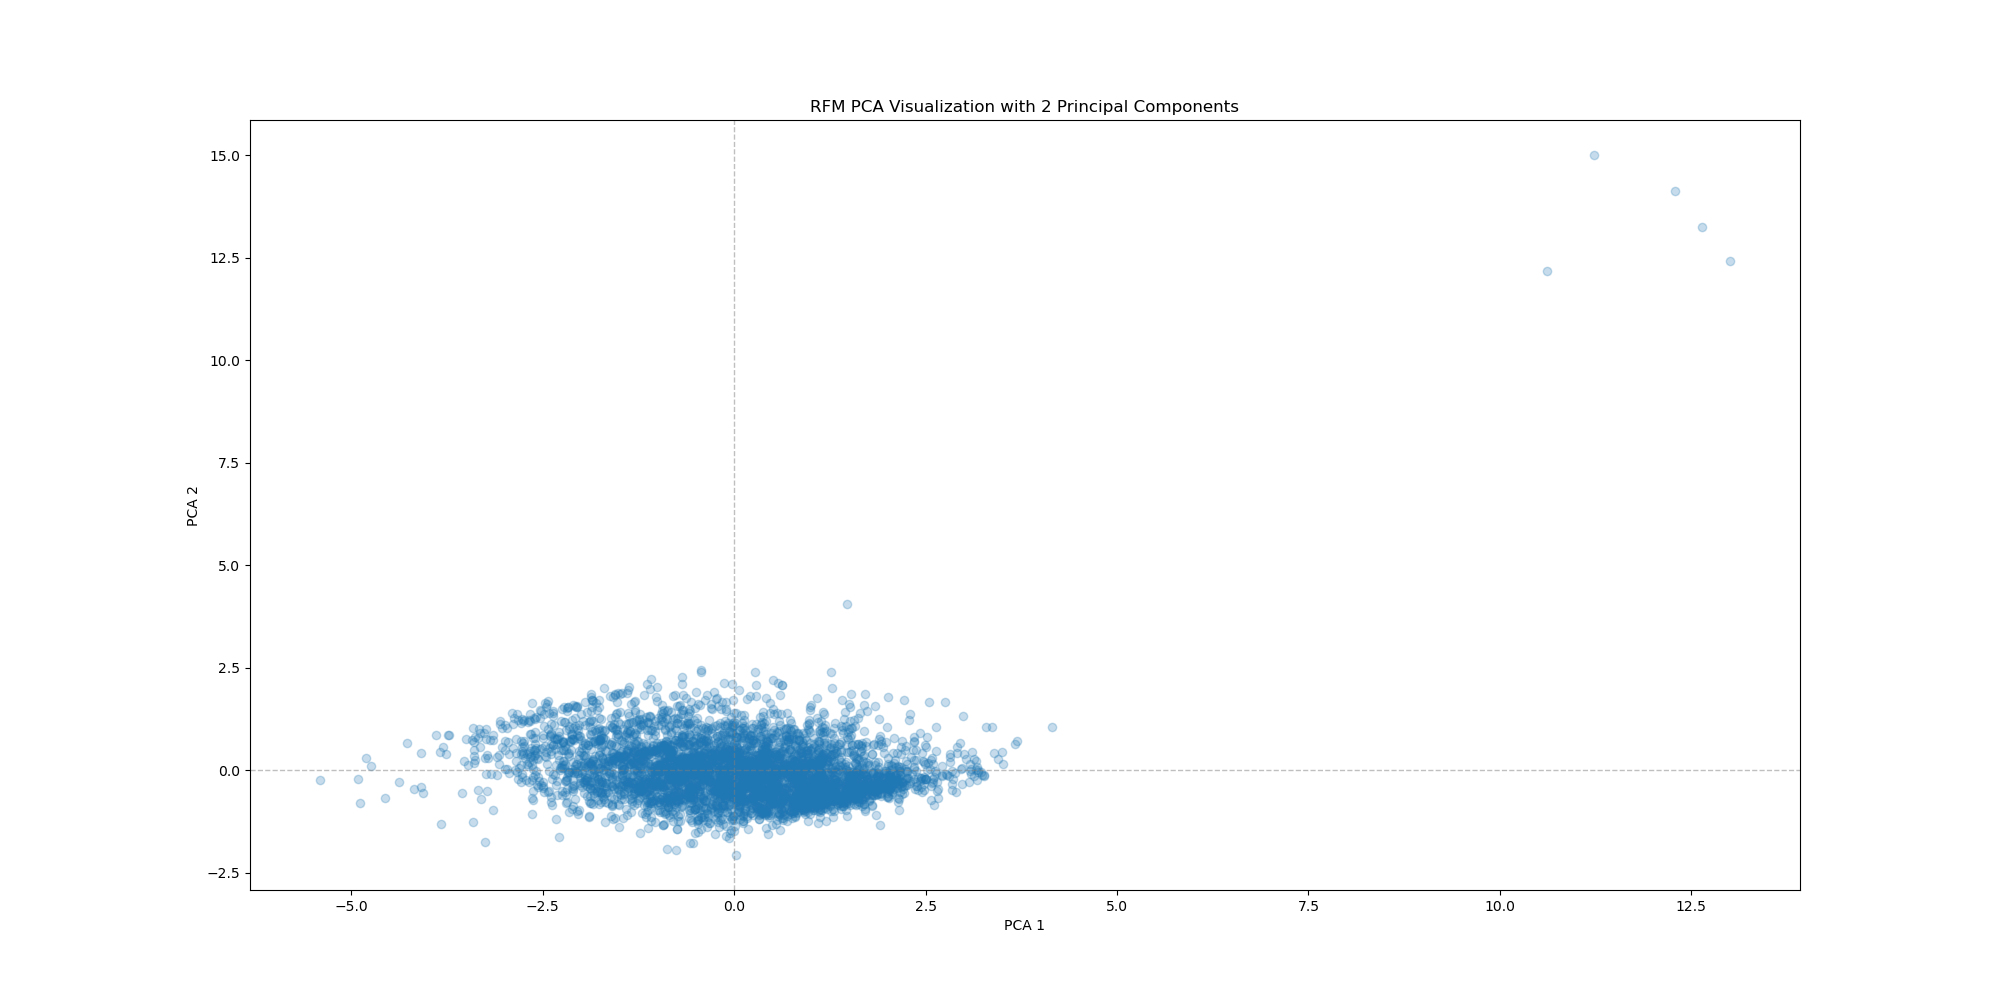
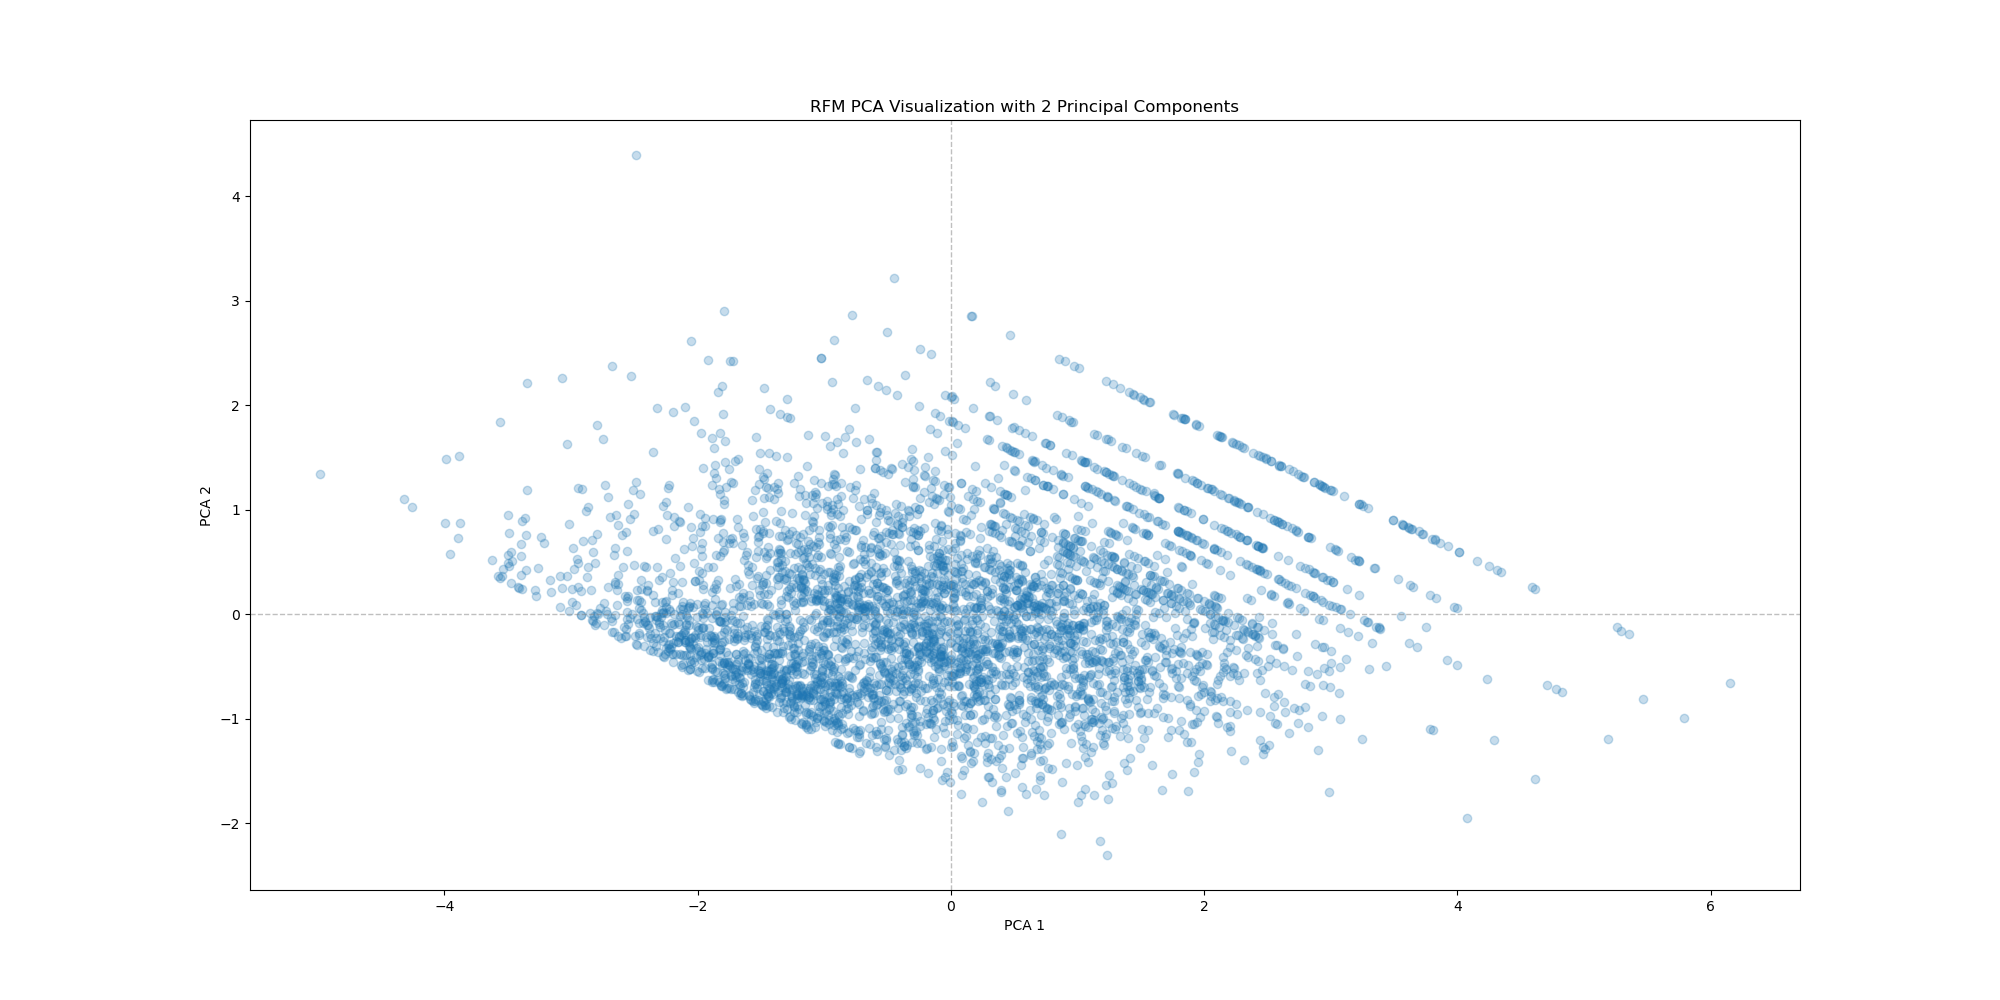
add seaborn visualizations

diff --git a/ecommerce/process_data.py b/ecommerce/process_data.py
@@ -12,6 +12,7 @@
 import math
 import tqdm
 import matplotlib.cm
+import seaborn as sns
 import pandas as pd
 import numpy as np
 import networkx as nx
@@ -31,15 +32,16 @@ from misc_utilities import *
 with warnings_suppressed():
     tqdm.tqdm.pandas()
 
-MAX_NUMBER_OF_CLUSTERS_TO_TRY = 10
+MAX_NUMBER_OF_CLUSTERS_TO_TRY = 15
 
 # https://www.kaggle.com/carrie1/ecommerce-data
 RAW_DATA_CSV_FILE_LOCATION = './data/data.csv'
 
-RFM_PCA_VISUALIZATION_OUTPUT_PNG_FILE_LOCATION = './rfm_pca.png'
 RFM_PCA_VISUALIZATION_WITH_CLUSTERS_OUTPUT_PNG_FILE_LOCATION_TEMPLATE = './rfm_pca_{cluster_count}_clusters.png'
+RFM_PAIR_PLOT_VISUALIZATION_WITH_CLUSTERS_OUTPUT_PNG_FILE_LOCATION_TEMPLATE = './rfm_pair_plot_{cluster_count}_clusters.png'
 RFM_CLUSTER_SILHOUETTE_SCORE_OUPUT_PNG_FILE_LOCATION = './rfm_silhouette_scores.png'
 CUSTOMER_SIMILARITY_LABEL_OUTPUT_PNG_FILE_LOCATION = './customer_similarity_communities.png'
+CUSTOMER_SIMILARITY_LABEL_PAIR_PLOT_OUTPUT_PNG_FILE_LOCATION = './customer_similarity_pair_plot.png'
 
 ###################
 # Data Processing #
@@ -82,15 +84,10 @@ def generate_rfm_df(data_df: pd.DataFrame) -> pd.DataFrame:
     rfm_df = append_invoice_count_data(rfm_df, data_df)
     print('Calculating monetary data.')
     rfm_df = append_overall_purchase_amount_data(rfm_df, data_df)
-    rfm_df.drop(rfm_df[rfm_df.CustomerOverallPurchaseAmount <= 0].index, inplace=True)
+    rfm_df.drop(rfm_df[rfm_df.CustomerOverallPurchaseAmount < 0.01].index, inplace=True)
     assert len(rfm_df[rfm_df.DaysSinceLastPurchase < 0]) == 0
     assert len(rfm_df[rfm_df.InvoiceCount <= 0]) == 0
     assert len(rfm_df[rfm_df.CustomerOverallPurchaseAmount <= 0]) == 0
-    rfm_df.rename(columns={'DaysSinceLastPurchase': 'recency', 'InvoiceCount': 'frequency', 'CustomerOverallPurchaseAmount': 'monetary'}, inplace=True)
-    print('Normalizing RFM data.')
-    rfm_df.recency = rfm_df.recency.progress_map(lambda number_of_days_since_last_purchase: 1+number_of_days_since_last_purchase)
-    rfm_df = rfm_df.progress_apply(np.log10)
-    assert len(rfm_df[rfm_df.isnull().any(axis=1)])==0, "RFM data contains NaN"
     return rfm_df
 
 def generate_customer_similarity_labels_via_louvain(data_df: pd.DataFrame) -> pd.DataFrame:
@@ -107,24 +104,15 @@ def generate_customer_similarity_labels_via_louvain(data_df: pd.DataFrame) -> pd
 # Visualize Data #
 ##################
 
-def visualize_rfm_via_pca(rfm_df: pd.DataFrame, customer_louvain_community_label_df: pd.DataFrame) -> None:
+def visualize_rfm_pca_and_kmeans(rfm_visualization_df: pd.DataFrame) -> Tuple[np.ndarray, np.ndarray, dict]:
     print('Visualizing principal components.')
-    rfm_np = rfm_df.to_numpy()
+    rfm_np = rfm_visualization_df.to_numpy()
     scaler = StandardScaler(copy=False)
     scaler.fit(rfm_np)
     rfm_np = scaler.transform(rfm_np)
     pca = PCA(n_components=2, copy=False)
     pca.fit(rfm_np)
     rfm_np_2_dim = pca.transform(rfm_np)
-    with temp_plt_figure(figsize=(20.0,10.0)) as figure:
-        plot = figure.add_subplot(111)
-        plot.set_title('RFM PCA Visualization with 2 Principal Components')
-        plot.set_xlabel('PCA 1')
-        plot.set_ylabel('PCA 2')
-        plot.axvline(c='grey', lw=1, ls='--', alpha=0.5)
-        plot.axhline(c='grey', lw=1, ls='--', alpha=0.5)
-        plot.scatter(rfm_np_2_dim[:,0], rfm_np_2_dim[:,1], alpha=0.25)
-        figure.savefig(RFM_PCA_VISUALIZATION_OUTPUT_PNG_FILE_LOCATION)
     cluster_label_to_silhouette_score = {}
     for cluster_count in tqdm_with_message(range(2, MAX_NUMBER_OF_CLUSTERS_TO_TRY+1), post_yield_message_func=lambda index: f'Visualizing {cluster_count} clusters'):
         kmeans = KMeans(init='k-means++', n_clusters=cluster_count, n_init=100)
@@ -134,6 +122,7 @@ def visualize_rfm_via_pca(rfm_df: pd.DataFrame, customer_louvain_community_label
             plot.axvline(c='grey', lw=1, ls='--', alpha=0.5)
             plot.axhline(c='grey', lw=1, ls='--', alpha=0.5)
             cluster_label_to_color_map = matplotlib.cm.rainbow(np.linspace(0, 1, cluster_count))
+            cluster_label_to_color_map = dict(enumerate(cluster_label_to_color_map))
             colors = np.array([cluster_label_to_color_map[label] for label in labels])
             plot.scatter(rfm_np_2_dim[:,0], rfm_np_2_dim[:,1], c=colors, alpha=0.25)
             silhouette_score_value = silhouette_score(rfm_np, labels)
@@ -142,6 +131,14 @@ def visualize_rfm_via_pca(rfm_df: pd.DataFrame, customer_louvain_community_label
             plot.set_xlabel('PCA 1')
             plot.set_ylabel('PCA 2')
             figure.savefig(RFM_PCA_VISUALIZATION_WITH_CLUSTERS_OUTPUT_PNG_FILE_LOCATION_TEMPLATE.format(cluster_count=cluster_count))
+            rfm_visualization_df['ClusterLabel'] = pd.Series({customer_id: label for (customer_id, label) in zip(rfm_visualization_df.index, labels)})
+            pairplot = sns.pairplot(rfm_visualization_df, hue='ClusterLabel', palette=cluster_label_to_color_map, height=4.0)
+            pairplot.fig.suptitle(f'Log RFM Pairplot with {cluster_count} Clusters', y=1.04)
+            pairplot._legend.remove()
+            pairplot.savefig(RFM_PAIR_PLOT_VISUALIZATION_WITH_CLUSTERS_OUTPUT_PNG_FILE_LOCATION_TEMPLATE.format(cluster_count=cluster_count))
+    return rfm_np, rfm_np_2_dim, cluster_label_to_silhouette_score
+
+def visualize_silhouette_scores(rfm_np: np.ndarray, cluster_label_to_silhouette_score: dict) -> None:
     print('Visualizing Silhouette scores.')
     with temp_plt_figure(figsize=(20.0,10.0)) as figure:
         plot = figure.add_subplot(111)
@@ -158,6 +155,9 @@ def visualize_rfm_via_pca(rfm_df: pd.DataFrame, customer_louvain_community_label
         plot.set_xticks(range(max(cluster_label_to_silhouette_score.keys())+2))
         plot.grid(True)
         figure.savefig(RFM_CLUSTER_SILHOUETTE_SCORE_OUPUT_PNG_FILE_LOCATION)
+    return 
+
+def visualize_cluster_similarity_communities(rfm_np_2_dim: np.ndarray, customer_louvain_community_label_df: pd.DataFrame, rfm_visualization_df: pd.DataFrame) -> None:
     print('Visualizing customer purchase-similarity communities.')
     with temp_plt_figure(figsize=(20.0,10.0)) as figure:
         plot = figure.add_subplot(111)
@@ -165,13 +165,31 @@ def visualize_rfm_via_pca(rfm_df: pd.DataFrame, customer_louvain_community_label
         plot.axhline(c='grey', lw=1, ls='--', alpha=0.5)
         number_of_communities = len(customer_louvain_community_label_df.community_label.unique())
         cluster_label_to_color_map = matplotlib.cm.rainbow(np.linspace(0, 1, number_of_communities))
-        labels = (customer_louvain_community_label_df.loc[customer_id].community_label for customer_id in rfm_df.index)
+        cluster_label_to_color_map = dict(enumerate(cluster_label_to_color_map))
+        labels = [customer_louvain_community_label_df.loc[customer_id].community_label for customer_id in rfm_visualization_df.index]
         colors = np.array([cluster_label_to_color_map[label] for label in labels])
         plot.scatter(rfm_np_2_dim[:,0], rfm_np_2_dim[:,1], c=colors, alpha=0.25)
         plot.set_title(f'Customer Purchase-Similarity Communities via Louvain ({number_of_communities} Communities)')
         plot.set_xlabel('PCA 1')
         plot.set_ylabel('PCA 2')
         figure.savefig(CUSTOMER_SIMILARITY_LABEL_OUTPUT_PNG_FILE_LOCATION)
+        rfm_visualization_df['ClusterLabel'] = pd.Series({customer_id: label for (customer_id, label) in zip(rfm_visualization_df.index, labels)})
+        pairplot = sns.pairplot(rfm_visualization_df, hue='ClusterLabel', palette=cluster_label_to_color_map, height=4.0)
+        pairplot.fig.suptitle(f'Log RFM Pairplot with {len(labels)} Purchase Communities', y=1.04)
+        pairplot._legend.remove()
+        pairplot.savefig(CUSTOMER_SIMILARITY_LABEL_PAIR_PLOT_OUTPUT_PNG_FILE_LOCATION.format(cluster_count=len(labels)))
+    return
+
+def visualize_rfm(rfm_df: pd.DataFrame, customer_louvain_community_label_df: pd.DataFrame) -> None:
+    rfm_visualization_df = rfm_df.copy()
+    rfm_visualization_df.rename(columns={'DaysSinceLastPurchase': 'recency', 'InvoiceCount': 'frequency', 'CustomerOverallPurchaseAmount': 'monetary'}, inplace=True)
+    print('Normalizing RFM data.')
+    rfm_visualization_df.recency = rfm_visualization_df.recency.progress_map(lambda number_of_days_since_last_purchase: 1+number_of_days_since_last_purchase)
+    rfm_visualization_df = rfm_visualization_df.progress_apply(np.log10)
+    assert len(rfm_visualization_df[rfm_visualization_df.isnull().any(axis=1)])==0, "RFM data contains NaN"
+    rfm_np, rfm_np_2_dim, cluster_label_to_silhouette_score = visualize_rfm_pca_and_kmeans(rfm_visualization_df)
+    visualize_silhouette_scores(rfm_np, cluster_label_to_silhouette_score)
+    visualize_cluster_similarity_communities(rfm_np_2_dim, customer_louvain_community_label_df, rfm_visualization_df)
     return
 
 ##########
@@ -188,7 +206,7 @@ def main() -> None:
     print('Generating similar purchase graph.')
     customer_louvain_community_label_df = generate_customer_similarity_labels_via_louvain(data_df)
     print('Visualizing cluster data.')
-    visualize_rfm_via_pca(rfm_df, customer_louvain_community_label_df)
+    visualize_rfm(rfm_df, customer_louvain_community_label_df)
     return
         
 if __name__ == '__main__':
